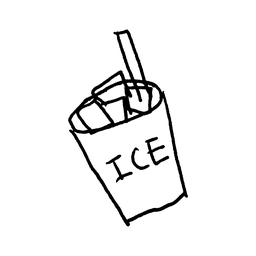
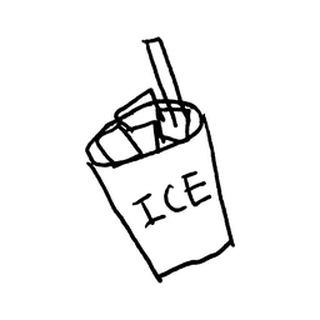
feat(expense): 즐겨찾기 및 추천 템플릿 UI 개선
- 추천 템플릿 칩(Chip)에 카테고리 이름과 금액을 함께 표시하도록 구조 변경
- 카테고리 아이콘 크기 조정 및 색상 최적화
- 커피 카테고리 이미지 업데이트

diff --git a/lib/features/expense/presentation/widgets/favorite_templates_section.dart b/lib/features/expense/presentation/widgets/favorite_templates_section.dart
@@ -24,8 +24,9 @@ class FavoriteTemplatesSection extends ConsumerWidget {
     final frequent = homeState.frequentTemplates;
     final dismissedFreqKeys = homeState.dismissedFreqKeys;
 
-    final favoriteKeys =
-        favorites.map((f) => '${f.amount}_${f.category}').toSet();
+    final favoriteKeys = favorites
+        .map((f) => '${f.amount}_${f.category}')
+        .toSet();
     final deduped = frequent
         .where(
           (t) =>
@@ -52,11 +53,7 @@ class FavoriteTemplatesSection extends ConsumerWidget {
                   return Padding(
                     padding: const EdgeInsets.only(right: 8),
                     child: InputChip(
-                      avatar: Image.asset(
-                        cat.assetPath,
-                        width: 18,
-                        height: 18,
-                      ),
+                      avatar: Image.asset(cat.assetPath, width: 18, height: 18),
                       label: Text(
                         _formatAmount(fav.amount),
                         style: AppTypography.bodyMedium.copyWith(
@@ -65,10 +62,12 @@ class FavoriteTemplatesSection extends ConsumerWidget {
                               : AppColors.textMain,
                         ),
                       ),
-                      backgroundColor:
-                          isDark ? AppColors.darkCard : cat.chipColor,
-                      deleteIconColor:
-                          isDark ? AppColors.darkTextSub : AppColors.textSub,
+                      backgroundColor: isDark
+                          ? AppColors.darkCard
+                          : cat.chipColor,
+                      deleteIconColor: isDark
+                          ? AppColors.darkTextSub
+                          : AppColors.textSub,
                       onPressed: () async {
                         try {
                           await ref
@@ -98,27 +97,38 @@ class FavoriteTemplatesSection extends ConsumerWidget {
                 // 자동학습 추천 (중복 제거 + 영구 숨김 적용)
                 ...deduped.map((t) {
                   final cat = ExpenseCategory.values[t['category']!];
+
                   return Padding(
                     padding: const EdgeInsets.only(right: 8),
                     child: InputChip(
                       avatar: Image.asset(
                         cat.assetPath,
-                        width: 18,
-                        height: 18,
+                        width: 32,
+                        height: 32,
+                        color: isDark
+                            ? AppColors.darkTextMain
+                            : AppColors.textMain,
                       ),
-                      label: Text(
-                        _formatAmount(t['amount']!),
-                        style: AppTypography.bodySmall.copyWith(
-                          color: isDark
-                              ? AppColors.darkTextSub
-                              : AppColors.textSub,
-                        ),
+                      label: Column(
+                        crossAxisAlignment: CrossAxisAlignment.start,
+                        children: [
+                          Text(cat.label),
+                          Text(
+                            _formatAmount(t['amount']!),
+                            style: AppTypography.bodySmall.copyWith(
+                              color: isDark
+                                  ? AppColors.darkTextMain
+                                  : AppColors.textMain,
+                            ),
+                          ),
+                        ],
                       ),
                       backgroundColor: isDark
                           ? AppColors.darkSurface
                           : AppColors.primaryLight,
-                      deleteIconColor:
-                          isDark ? AppColors.darkTextSub : AppColors.textSub,
+                      deleteIconColor: isDark
+                          ? AppColors.darkTextSub
+                          : AppColors.textSub,
                       onPressed: () {
                         onTemplateTap((
                           amount: t['amount']!,
